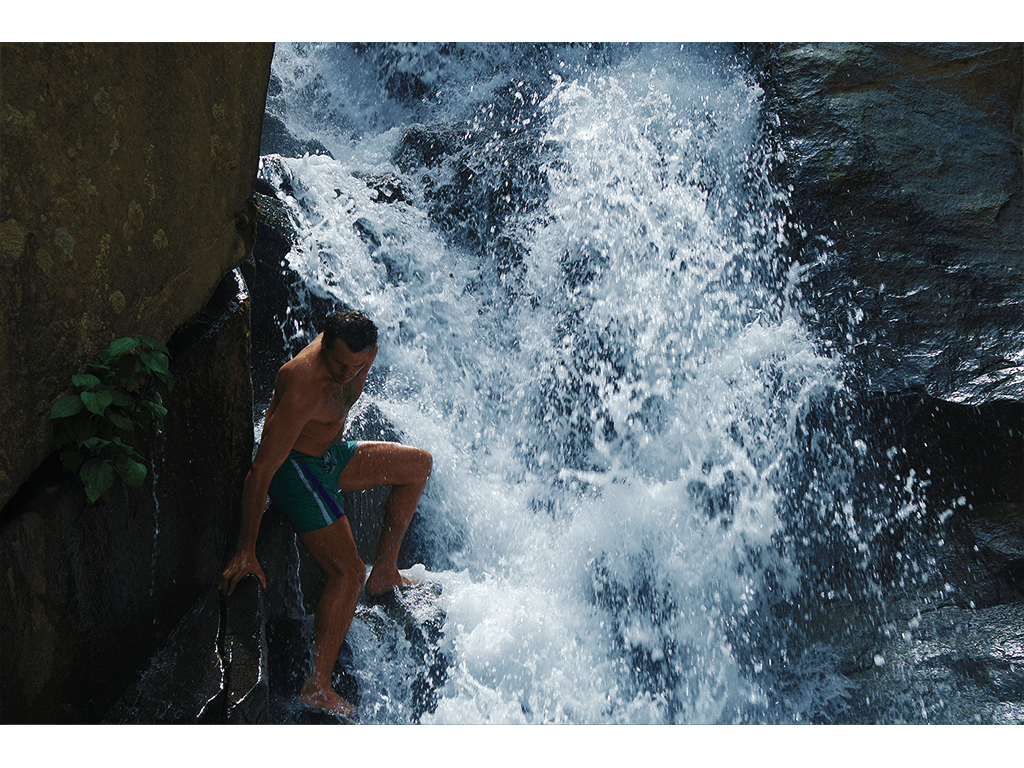
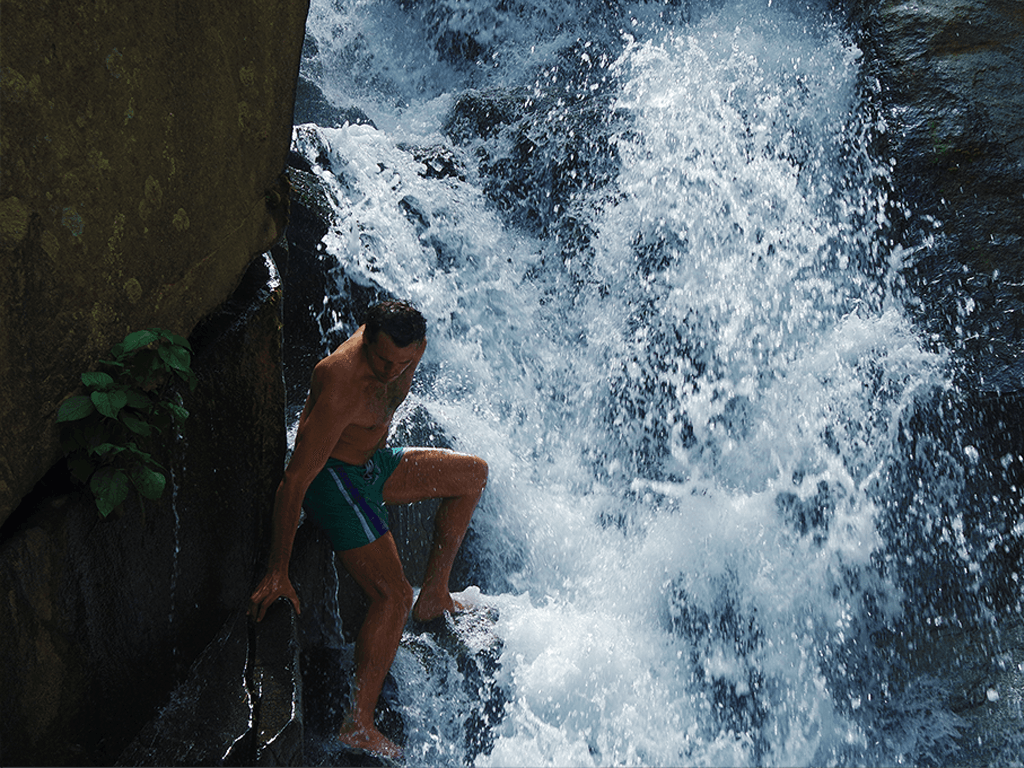
Corrected images for carousel on about

diff --git a/index.html b/index.html
@@ -78,6 +78,7 @@
                     <li data-target="#myCarousel" data-slide-to="2"></li>
                     <li data-target="#myCarousel" data-slide-to="3"></li>
                     <li data-target="#myCarousel" data-slide-to="4"></li>
+                    <li data-target="#myCarousel" data-slide-to="5"></li>
                 </ol>
 
                 <!-- Wrapper for slides -->
@@ -99,6 +100,9 @@
                     </div>
                     <div class="item">
                         <img src="img/about/5.png" alt="Flower">
+                    </div>
+                    <div class="item">
+                        <img src="img/about/6.png" alt="Flower">
                     </div>
                 </div>
             </div>

diff --git a/css/main.less b/css/main.less
@@ -392,7 +392,12 @@ body,
 }
 
 #about {
-    padding: 5% 0;
+    padding: 0 0 5% 0;
+    position: relative;
+    top: -20px;
+    p{
+        padding: 5%;
+    }
 }
 
 .btn-primary {
